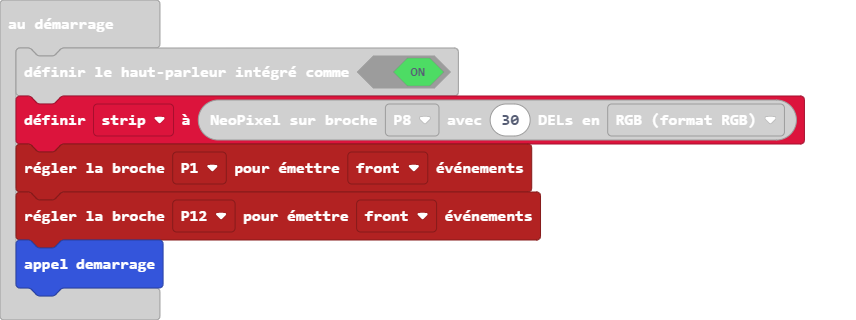
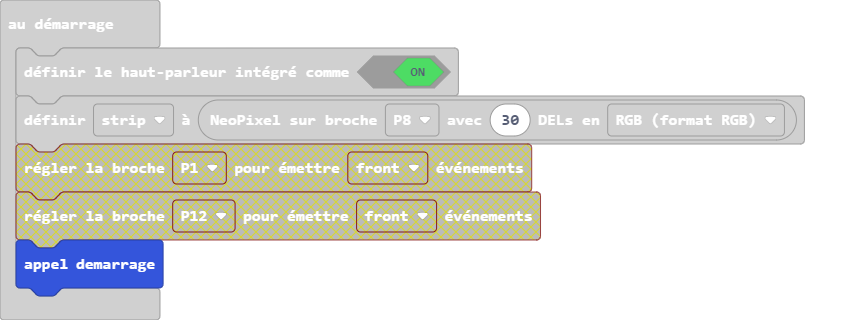
Mise à jour main.blocks, main.ts

Changed region(s): [[0.0, 0.2812, 0.9416, 0.7812]]

diff --git a/main.ts b/main.ts
@@ -88,8 +88,6 @@ let nb_tour_a = 0
 let strip: neopixel.Strip = null
 music.setBuiltInSpeakerEnabled(true)
 strip = neopixel.create(DigitalPin.P8, 30, NeoPixelMode.RGB)
-pins.setEvents(DigitalPin.P1, PinEventType.Edge)
-pins.setEvents(DigitalPin.P12, PinEventType.Edge)
 demarrage()
 basic.forever(function () {
     aff_led()
